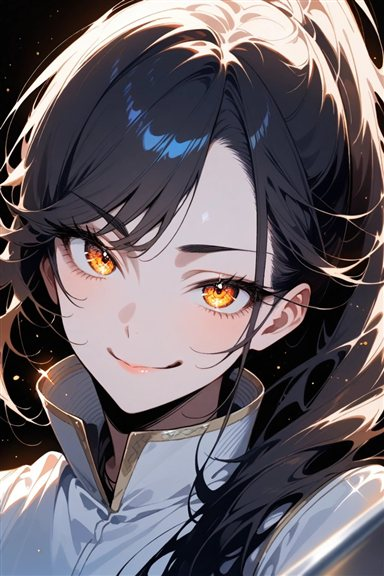
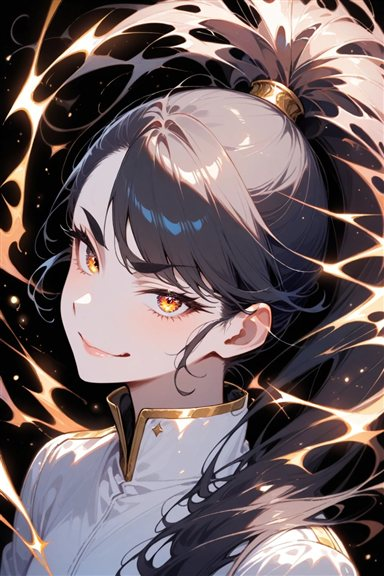
남성향 애니 화풍 — 번개는 프로필(0번 칸) 배경에만
사용자 결정(2026-11-11, 확정 화풍 위 번개 시험 뒤): 0번 칸 배경에 (lightning:0.8), electricity(manime.json bg.profile).
감정 칸 1~14와 전신은 그대로(bg.default) — 대화 속에 계속 나와 번잡하고, 전신에서는 옷이 바뀐 일이 있었음. 13번 각성 칸은 원래 번개.
prompts.json의 칸 0 프롬프트 25개에 번개, 견본 프로필 두 장을 번개 판으로, README·CLAUDE.md 한 줄.

diff --git a/archive/style-manime/README.md b/archive/style-manime/README.md
@@ -11,7 +11,7 @@
 | --- | --- |
 | `manime.json` | **확정 값.** 모델·생성 설정·조립 순서·인물 앞 문구·화풍 문구(여성/남성)·배경·네거티브(여성/남성)·장면 태그(칸 0~14)·표정 규칙·포니테일 규칙·눈색 규칙·인물별 매력 표(`charm`)·전신 규칙(`fullBody`)·바뀐 기록 |
 | `prompts.json` | 출연진 25명 × 칸 0(프로필)·칸 1(기본)·전신 = 75개의 **완성된** 긍정·부정 프롬프트(작품 태그에 눈색을 넣은 뒤의 값). 외부 도구에 그대로 붙여 넣으면 됨 |
-| `samples/` | v6으로 만든 견본 3장(384px) — 한서윤 프로필·윤채이 프로필·미소 전신 |
+| `samples/` | v6으로 만든 견본 3장(384px) — 한서윤 프로필·윤채이 프로필(둘 다 번개)·미소 전신 |
 
 ## 생성 설정
 
@@ -30,7 +30,8 @@
 - 인물 태그는 모두 1.15. **머리색·묶은 머리·눈색은 1.3**(눈매 태그 sharp·narrow·round·droopy·upturned eyes는 1.15 그대로).
 - **눈색**은 작품의 영문 `tags`에 있습니다(2026-11-11에 25명 모두 넣음). 전에는 태그에 눈색이 없어 그림마다 바뀌었습니다.
 - 장면 태그는 `manime.json`의 `sceneTags`(칸 0~14). 13번(각성)만 이 화풍용으로 바꿈(번개·기운).
-- 배경은 검은 바탕 + 반짝임 + 역광 `(backlighting:0.9)` — 작품 장소는 넣지 않습니다.
+- 배경은 검은 바탕 + 반짝임 + 역광 `(backlighting:0.9)` — 작품 장소는 넣지 않습니다(`bg.default`).
+- **번개는 칸 0(프로필)에만**: 배경에 `(lightning:0.8), electricity`(`bg.profile`, 2026-11-11 사용자 결정). 번개가 인물 눈색을 따라가 인물마다 다른 기운처럼 보입니다. 감정 칸 1~14와 전신에는 넣지 않습니다(대화 속에 계속 나와 번잡하고, 전신에서는 옷이 바뀐 일이 있었음). 13번(각성) 칸은 장면 태그에 원래 번개가 있습니다.
 
 **칸 0(프로필)에만 붙는 규칙**
 - **표정**: 인물별 표정(`charm.expr` — 한글 외형 글의 표정: 홍레나 오만, 미소 해맑은 웃음, 당소소 윙크, 묵란 냉소, 화린 크게 웃음 등)이 있으면 그것, 없으면 눈매 규칙(sharp·narrow·upturned → 비웃는 미소, round·droopy → 웃음, 그 밖 옅은 미소). 같은 미소만 반복되지 않게.
@@ -61,7 +62,7 @@
 | v2 | 광택 태그(`glossy hair`·`shiny hair highlights`·`soft/gradient shading`)를 빼고 `(hatching \(texture\):1.1)` — 머리에 먹선 획. 눈매로 표정 고르기. 높은 포니테일 옆 각도. 여성 옅은 화장 |
 | v3 | 네거티브에 그늘진 얼굴·빈 눈, 일상 화풍에서 물려받은 `thick/bold outlines` 네거티브 뺌(먹선을 누르고 있었음), 역광 |
 | v5 | 여성 성숙 태그를 `(adult woman:1.1)` 하나로, 진한 눈 화장 → 옅은 홍조·분홍 입술, 위에서 본 각도 |
-| v6 | 눈색(작품 태그, 1.3), 인물별 표정·소품, 머리 번짐 막기, 전신 규칙, 크기 832×1248 |
+| v6 | 눈색(작품 태그, 1.3), 인물별 표정·소품, 머리 번짐 막기, 전신 규칙, 크기 832×1248, 프로필에만 번개 |
 
 ## 비교 생성에서 안 것
 
@@ -70,7 +71,7 @@
 - 볼살(`round face` 양수)·화장 빼기로 앳되게 → 어색함(사용자). 성숙 태그를 줄이고 눈 화장을 옅게 하는 쪽이 맞았음.
 - 흩날리는 머리·`round face` 네거티브 빼기·선 긋기 음영 0.8 → 거의 변화 없음.
 - 물감 튀김 효과 → 변화 없음.
-- 번개 `(lightning:0.8), electricity` → 인물마다 기운 효과가 생기지만 모든 그림에 들어감. **v6 위에서 다시 시험할 예정**(`manime.json` `lightningOption`).
+- 번개 `(lightning:0.8), electricity` → 눈색을 따라 인물마다 다른 색의 기운이 생김. 순한 인물(미소)은 거의 안 보이고, 전신에서는 당소소의 보라 무복이 흰 바지로 바뀜 → 프로필에만.
 
 ## 남은 흠
 

diff --git a/CLAUDE.md b/CLAUDE.md
@@ -5,7 +5,7 @@
 ## 2026-11-08 정리(초기화) — 사용자 요청 '불필요한 코드는 싹 지우고 지금 서비스 개발에 필요한 것만, 개발하기 좋은 환경으로'
 - 되돌릴 자리: 태그 **archive/before-reset-2026-11-08**(정리 직전, 로컬에만 — 밀지 않음). 지운 코드는 `git show archive/before-reset-2026-11-08:<경로>`로 꺼내 봄
 - 지운 것: 브라우저의 그림 생성 전부(Runware·프롬프트·태그 번역·그림체·화풍 맞춤·이미지 스튜디오·움짤·코드 표 codes.json·조합 코드 4xx·5xx·1xx·직접 만든 칸), 관리자 작품 만들기(스튜디오·작품 화면·내보내기), 성인 모드(OpenRouter·무검열 우회·자기 확인 체크·휴대폰 본인인증 화면), API 키 금고(키는 이제 계정에 올리지 않음), 커뮤니티·내가 만든 작품, claude.ai 아티팩트 런타임(sample·db·assets·downloads)
-- 따로 보관: **남성향 일상 화풍** — archive/style-mdaily/(README·mdaily.json·prompts.json·samples/·code/ — 사용자 요청 '이건 아깝다'), **여성향 일상 화풍** — archive/style-fdaily/(정리 전 태그에만 있던 값을 꺼냄, 조립·후처리 코드는 style-mdaily/code/를 같이 씀). **남성향 애니 화풍** — archive/style-manime/(README·manime.json·prompts.json·samples/ — 2026-11-11 확정 v6: Animagine XL 4.0, LoRA 없음, 832×1248, 인물별 눈색은 작품 tags에·표정·소품·전신 자세는 manime.json charm). 2026-11-10 확정판 mdaily-v6·fdaily-v7(각 README의 v6·v7 — 배경 규칙, 남성 어깨 문구는 인물 태그 뒤·배경 앞)로 그림을 앱 밖에서 만들어 content/에 넣음. 그림 원칙(관리자만 만듦·참고 그림 커밋 금지·YabaL 그림 판매 불가)·모델 상업 조건·PurpleSmart 문의 초안·남은 일은 그 README의 '라이선스' 절, 모델별 자세한 조건은 docs/COMMERCIALIZATION.md §8
+- 따로 보관: **남성향 일상 화풍** — archive/style-mdaily/(README·mdaily.json·prompts.json·samples/·code/ — 사용자 요청 '이건 아깝다'), **여성향 일상 화풍** — archive/style-fdaily/(정리 전 태그에만 있던 값을 꺼냄, 조립·후처리 코드는 style-mdaily/code/를 같이 씀). **남성향 애니 화풍** — archive/style-manime/(README·manime.json·prompts.json·samples/ — 2026-11-11 확정 v6: Animagine XL 4.0, LoRA 없음, 832×1248, 인물별 눈색은 작품 tags에·표정·소품·전신 자세는 manime.json charm, 번개는 프로필(0번 칸) 배경에만). 2026-11-10 확정판 mdaily-v6·fdaily-v7(각 README의 v6·v7 — 배경 규칙, 남성 어깨 문구는 인물 태그 뒤·배경 앞)로 그림을 앱 밖에서 만들어 content/에 넣음. 그림 원칙(관리자만 만듦·참고 그림 커밋 금지·YabaL 그림 판매 불가)·모델 상업 조건·PurpleSmart 문의 초안·남은 일은 그 README의 '라이선스' 절, 모델별 자세한 조건은 docs/COMMERCIALIZATION.md §8
 - 남겨 둔 것: docs/edge/verify-adult.ts(+ 단위 테스트)·docs/supabase.sql의 adult_checks 표 — 성인 기능을 **서버 쪽에** 다시 세울 때 씀(지금 앱은 부르지 않음). core/safety.js minorFlags·minorHint·settingHint·roomMinorHint(작품 검사·단위 테스트, 나중의 서버 판정 — main에서 보강된 표현 표 그대로). 계정에 남아 있는 예전 행(imgpacks·vault 등)과 설정의 예전 칸은 지우지 않고 읽지 않기만 함(데이터 손실 없음)
 - 성인 콘텐츠 방침은 메모리 '성인 콘텐츠 투트랙 방침' — 플랫폼 코드는 Claude, 성인 콘텐츠는 외부 모델이 비공개 저장소에서 데이터로만, 변호사·PG 확인 뒤
 
